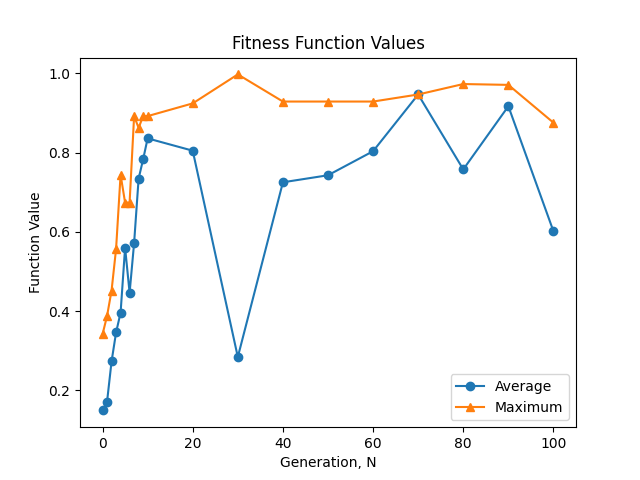
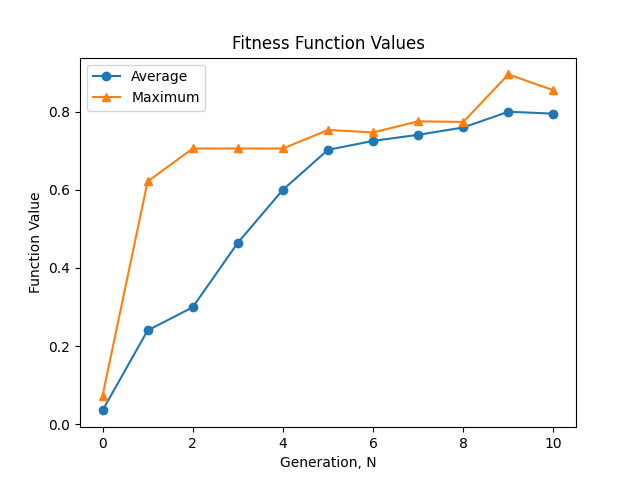
critical error in mutation fixed

diff --git a/main.py b/main.py
@@ -130,38 +130,33 @@ def genetic(f, xl, xr, yl, yr, num, gens):
 		# should be mutated as well. if one is mutated already, then the second
 		# one has its chance for this reduced
 
-		xdel5per = 0.05 * (xr - xl)
-		ydel5per = 0.05 * (yr - yl)
-
 		probability = 0.25
+		del_per = 5
+		x_delta = del_per / 100 * (xr - xl)
+		y_delta = del_per / 100 * (yr - yl)
+
 		for b in beings:
 			if random.random() < probability:
-
+				val = random.uniform(0, 1) * x_delta
 				if random.random() < 0.5:
-					val = random.uniform(0, 1) * xdel5per
-				else:
-					val = - random.uniform(0, 1) * xdel5per
-
-				if val < xl:
-					val = xl
-				if val > xr:
-					val = xr
-
+					val *= -1
 				b.set(b.x + val, b.y)
 
+				if b.x < xl:
+					b.x = xl
+				if b.x > xr:
+					b.x = xr
+
 			if random.random() < probability:
-
+				val = random.uniform(0, 1) * y_delta
 				if random.random() < 0.5:
-					val = random.uniform(0, 1) * ydel5per
-				else:
-					val = - random.uniform(0, 1) * ydel5per
-
-				if val < yl:
-					val = yl
-				if val > yr:
-					val = yr
-
+					val *= -1
 				b.set(b.x, b.y + val)
+
+				if b.y < yl:
+					b.y = yl
+				if b.y > yr:
+					b.y = yr
 
 		beings.sort(key = custom_sort_key, reverse = True)
 		iterations.append(Iteration(N, beings, f))
@@ -191,7 +186,7 @@ if __name__ == '__main__':
 	y1 = -2
 	y2 = 2
 	n = 4
-	gen_m = 100
+	gen_m = 10
 
 	# the very function
 	result = genetic(fun, x1, x2, y1, y2, n, gen_m)
